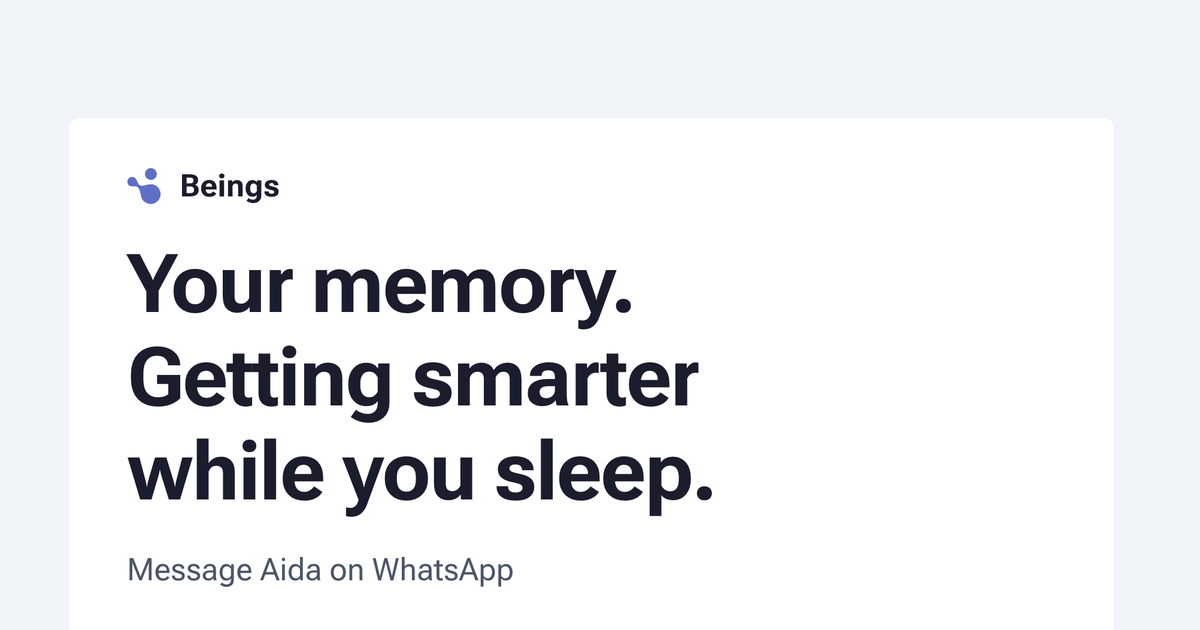
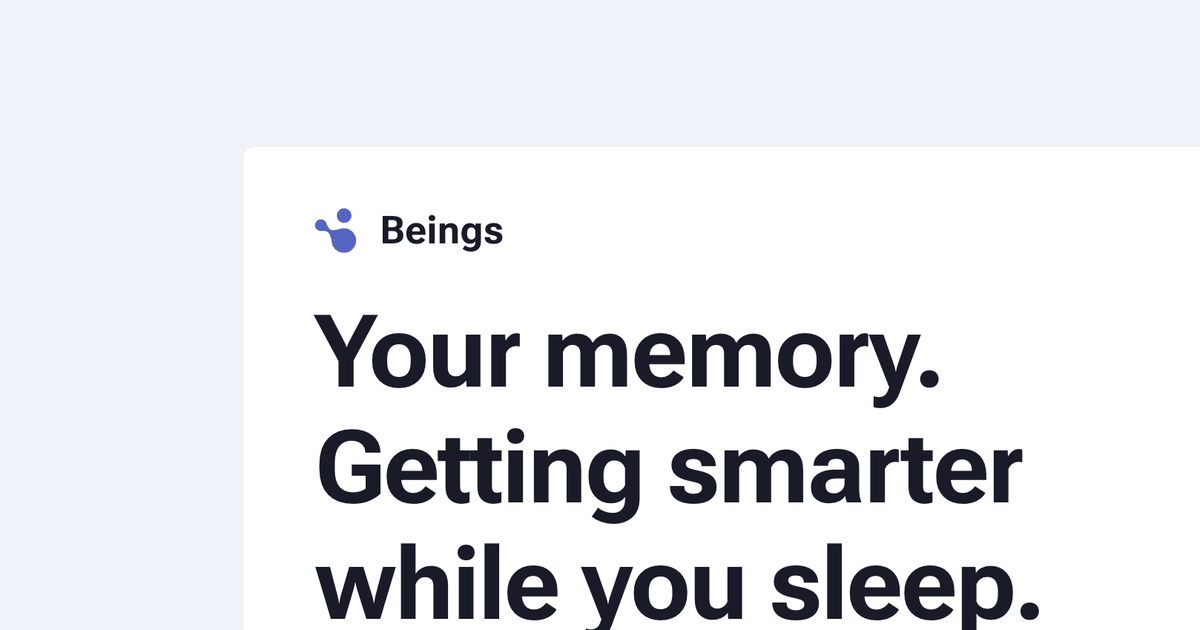
copy: remove "Aida" from chat page — match unnamed onboarding
Agent arrives unnamed, user co-creates identity. Page now says
"Your AI" instead of "Aida", CTA is "Say hello", OG image
updated to "Your AI memory, on WhatsApp".

Made-with: Cursor

Changed region(s): [[0.0925, 0.3317, 0.8633, 0.8444], [0.0925, 0.8444, 0.8633, 1.0], [0.0925, 0.2714, 0.2467, 0.3317]]

diff --git a/public/og-chat.html b/public/og-chat.html
@@ -67,7 +67,7 @@
       Getting smarter<br>
       while you sleep.
     </div>
-    <div class="subtitle">Message Aida on WhatsApp</div>
+    <div class="subtitle">Your AI memory, on WhatsApp</div>
   </div>
 </body>
 </html>
